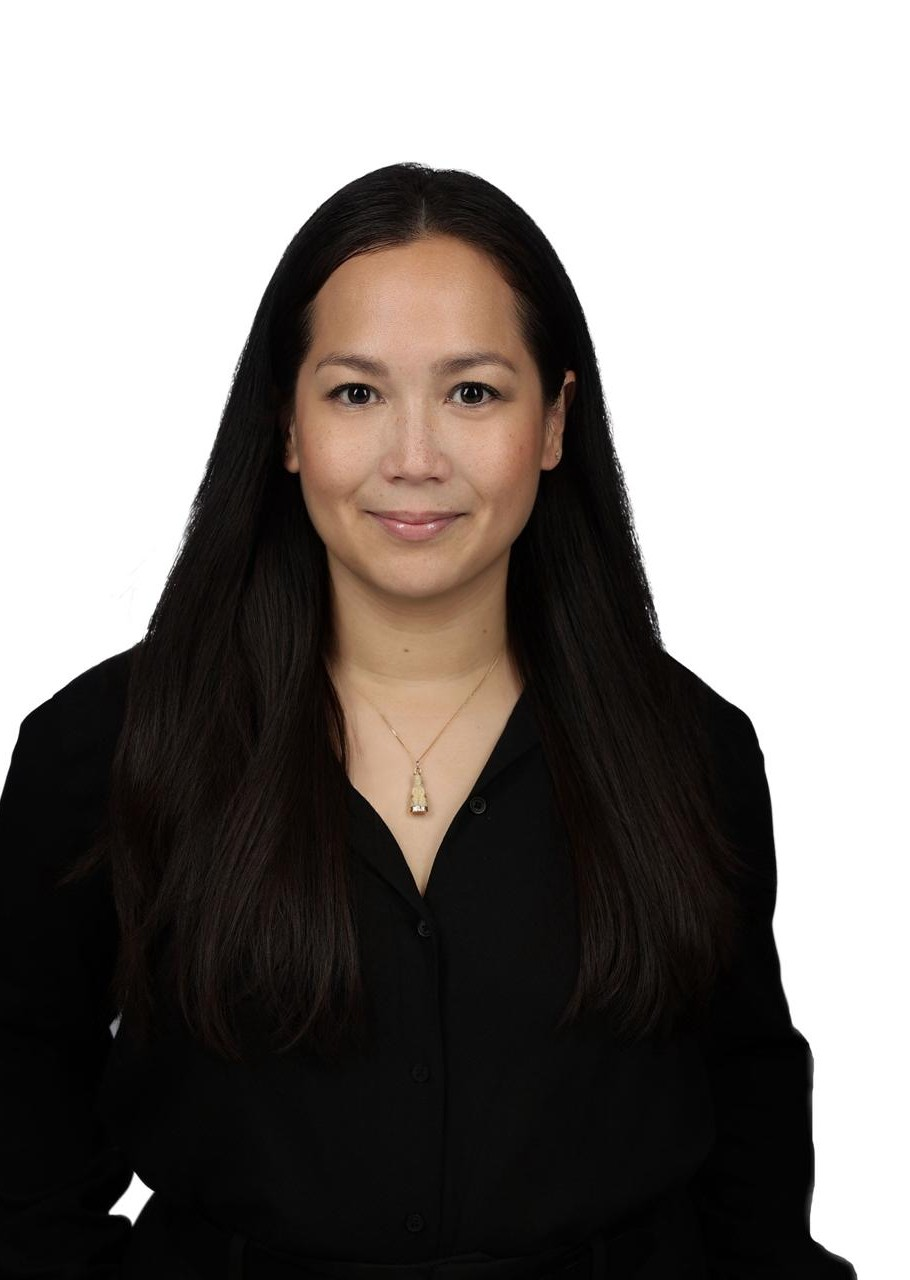
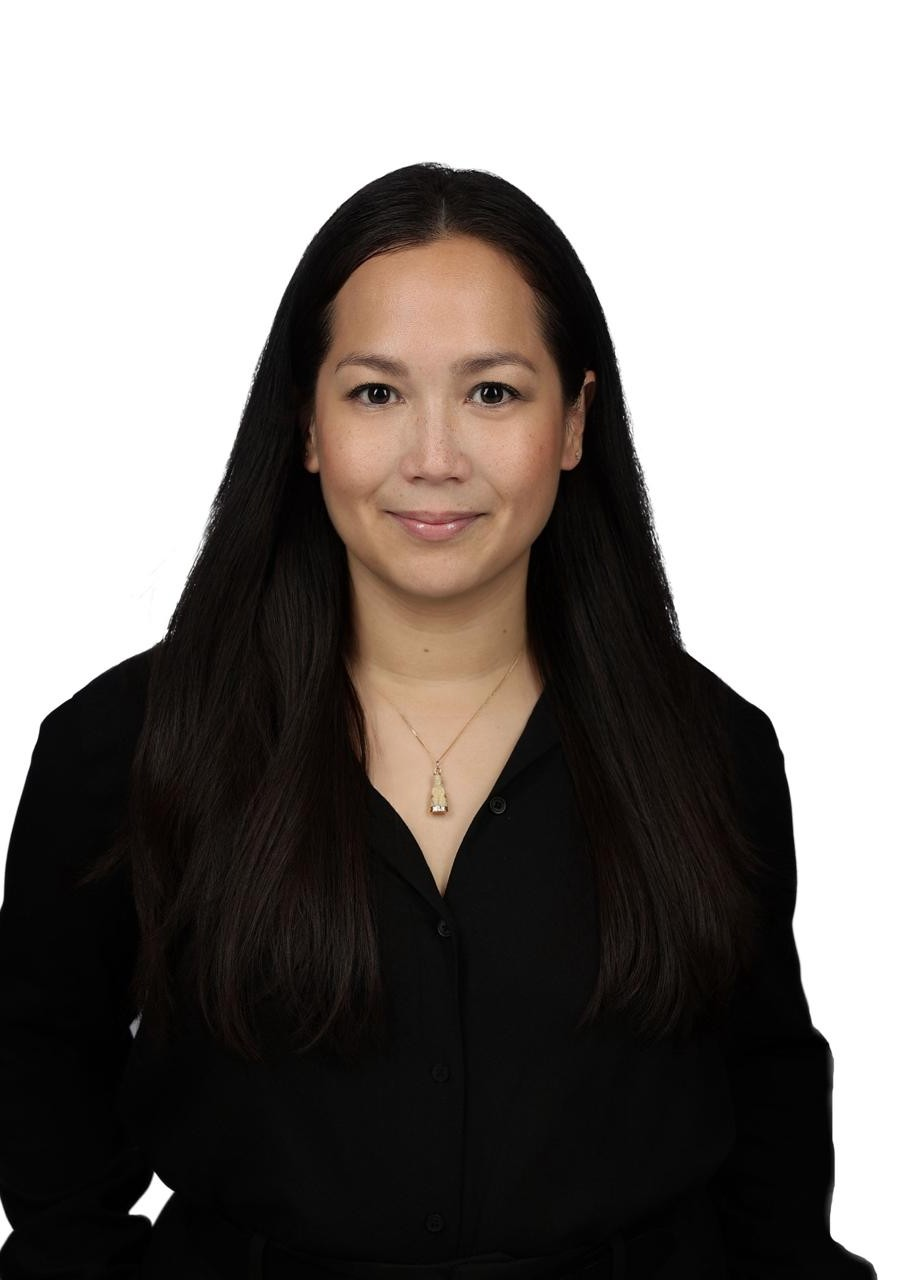
Add files via upload

diff --git a/index.html b/index.html
@@ -6,8 +6,8 @@
     <meta name="viewport" content="width=device-width, initial-scale=1.0" />
     <meta name="description" content="Eugenie Do – Real estate agent for the Greater Montreal Area. Buyer-first approach with construction expertise." />
     <title>Eugenie Do – Real Estate Agent, Greater Montreal</title>
-    <script type="module" crossorigin src="./assets/index-D9HHYLVe.js"></script>
-    <link rel="stylesheet" crossorigin href="./assets/index-BlrhRVmJ.css">
+    <script type="module" crossorigin src="./assets/index-ClrfqKkP.js"></script>
+    <link rel="stylesheet" crossorigin href="./assets/index-BZHalNX_.css">
   </head>
   <body>
     <div id="root"></div>

diff --git a/assets/index-BZHalNX_.css b/assets/index-BZHalNX_.css
@@ -1,0 +1,1 @@
+.nav{z-index:100;height:var(--nav-h);-webkit-backdrop-filter:blur(10px);backdrop-filter:blur(10px);transition:box-shadow .3s var(--ease);background:#faf6f2f2;border-bottom:1px solid #0000000f;align-items:center;display:flex;position:fixed;top:0;left:0;right:0}.nav.scrolled{box-shadow:0 2px 20px #00000014}.nav-inner{width:100%;max-width:var(--max);align-items:center;gap:32px;margin:0 auto;padding:0 32px;display:flex}.nav-logo{font-family:var(--font-disp);letter-spacing:.02em;color:var(--dark);cursor:pointer;background:0 0;border:none;margin-right:auto;padding:0;font-size:1.25rem;font-weight:500}.nav-logo span{color:var(--rose)}.nav-links{align-items:center;gap:32px;list-style:none;display:flex}.nav-link{letter-spacing:.1em;text-transform:uppercase;color:var(--mid);cursor:pointer;background:0 0;border:none;padding:4px 0;font-size:.78rem;font-weight:500;transition:color .2s}.nav-link:hover,.nav-link.active{color:var(--rose)}.nav-cta{letter-spacing:.08em;text-transform:uppercase;color:var(--white);background:var(--rose);cursor:pointer;border:none;border-radius:2px;padding:10px 22px;font-size:.78rem;font-weight:500;transition:background .2s}.nav-cta:hover{background:var(--rose-dk)}.nav-phone{color:var(--mid);white-space:nowrap;font-size:.78rem}.nav-phone:hover{color:var(--rose)}.hamburger{cursor:pointer;background:0 0;border:none;flex-direction:column;gap:5px;padding:6px;display:none}.hamburger span{background:var(--dark);width:24px;height:1.5px;transition:transform .3s var(--ease), opacity .3s;display:block}.hamburger.open span:first-child{transform:translateY(6.5px)rotate(45deg)}.hamburger.open span:nth-child(2){opacity:0}.hamburger.open span:nth-child(3){transform:translateY(-6.5px)rotate(-45deg)}.mobile-drawer{top:var(--nav-h);background:var(--cream);z-index:99;animation:slideDown .25s var(--ease);border-top:1px solid #0000000f;flex-direction:column;padding:16px 32px 28px;display:flex;position:fixed;left:0;right:0}.mobile-drawer button{letter-spacing:.1em;text-transform:uppercase;color:var(--mid);cursor:pointer;text-align:left;background:0 0;border:none;border-bottom:1px solid #0000000f;padding:14px 0;font-size:.85rem;font-weight:500;transition:color .2s}.mobile-drawer button:hover{color:var(--rose)}.mobile-drawer .mob-cta{background:var(--rose);border-radius:2px;margin-top:20px;padding:14px 24px;color:var(--white)!important;text-align:center!important;border-bottom:none!important}@keyframes slideDown{0%{opacity:0;transform:translateY(-8px)}to{opacity:1;transform:translateY(0)}}@media (width<=900px){.nav-links,.nav-phone{display:none}.hamburger{display:flex}}@media (width<=640px){.nav-inner{padding:0 20px}.mobile-drawer{padding:16px 20px 28px}}.nav-right{align-items:center;gap:16px;display:flex}.lang-toggle{letter-spacing:.1em;border:1px solid var(--rose);color:var(--rose);cursor:pointer;background:0 0;border-radius:2px;padding:5px 12px;font-size:.72rem;font-weight:500;transition:background .2s,color .2s}.lang-toggle:hover{background:var(--rose);color:var(--white)}.mob-lang{color:var(--rose);cursor:pointer;text-align:left;background:0 0;border:none;margin-top:8px;padding:12px 0;font-size:.8rem}@media (width<=900px){.nav-right{display:none}}.footer{background:#141210;padding:56px 0 32px}.footer-logo{font-family:var(--font-disp);letter-spacing:.02em;color:var(--white);cursor:pointer;background:0 0;border:none;margin-bottom:14px;padding:0;font-size:1.25rem;font-weight:500;display:block}.footer-logo span{color:var(--rose)}.footer-grid{border-bottom:1px solid #ffffff12;grid-template-columns:2fr 1fr 1fr;gap:48px;padding-bottom:40px;display:grid}.footer-brand p{color:#ffffff59;max-width:260px;font-size:.83rem;line-height:1.7}.footer-col h4{letter-spacing:.12em;text-transform:uppercase;color:#fff6;margin-bottom:18px;font-size:.72rem;font-weight:500}.footer-col ul{flex-direction:column;gap:10px;list-style:none;display:flex}.footer-col ul button,.footer-col ul a{color:#ffffff73;cursor:pointer;text-align:left;font-size:.85rem;font-family:var(--font-body);background:0 0;border:none;padding:0;transition:color .2s}.footer-col ul button:hover,.footer-col ul a:hover{color:var(--rose)}.footer-bottom{color:#fff3;flex-wrap:wrap;justify-content:space-between;align-items:center;gap:12px;padding-top:28px;font-size:.75rem;display:flex}@media (width<=760px){.footer-grid{grid-template-columns:1fr 1fr}}@media (width<=480px){.footer-grid{grid-template-columns:1fr}}.newsletter-strip{background:var(--blush);padding:60px 0}.newsletter-inner{flex-wrap:wrap;justify-content:space-between;align-items:center;gap:32px;display:flex}.newsletter-text h3{font-family:var(--font-disp);margin-bottom:6px;font-size:1.6rem;font-weight:300}.newsletter-text p{color:var(--mid);font-size:.88rem}.newsletter-form{flex:0 0 420px;display:flex}.newsletter-form input{background:var(--white);font-family:var(--font-body);border:1px solid #0000001f;border-right:none;border-radius:2px 0 0 2px;outline:none;flex:1;padding:14px 18px;font-size:.9rem}.newsletter-form input:focus{border-color:var(--rose)}.newsletter-form button{background:var(--rose);color:var(--white);letter-spacing:.1em;text-transform:uppercase;white-space:nowrap;border-radius:0 2px 2px 0;padding:14px 24px;font-size:.78rem;font-weight:500;transition:background .2s}.newsletter-form button:hover:not(:disabled){background:var(--rose-dk)}.newsletter-done{color:var(--rose);font-size:.9rem;font-weight:500}@media (width<=760px){.newsletter-form{flex:100%}}.hero{min-height:100vh;padding-top:var(--nav-h);grid-template-columns:1fr 1fr;display:grid}.hero-left{flex-direction:column;justify-content:center;padding:80px 64px 80px 80px;display:flex}.hero-eyebrow{letter-spacing:.18em;text-transform:uppercase;color:var(--rose);margin-bottom:20px;font-size:.72rem;font-weight:500}.hero-title{font-family:var(--font-disp);color:var(--dark);margin-bottom:24px;font-size:clamp(3rem,4.5vw,5.5rem);font-weight:300;line-height:1.05}.hero-title em{color:var(--rose);font-style:italic}.hero-sub{color:var(--mid);max-width:420px;margin-bottom:40px;font-size:1rem;line-height:1.75}.hero-actions{flex-wrap:wrap;gap:16px;display:flex}.hero-right{background:var(--blush);position:relative;overflow:hidden}.hero-right img{object-fit:cover;object-position:top center;width:100%;height:100%}.hero-right:after{content:"";background:linear-gradient(#0000 60%,#1a171426);position:absolute;inset:0}.hero-badges{z-index:2;flex-wrap:wrap;gap:14px;display:flex;position:absolute;bottom:32px;left:32px;right:32px}.hero-badge{-webkit-backdrop-filter:blur(8px);backdrop-filter:blur(8px);color:var(--mid);background:#faf6f2eb;border-radius:2px;padding:12px 18px;font-size:.78rem}.hero-badge strong{color:var(--dark);font-size:.9rem;font-weight:500;display:block}.hero-badge-logo{align-items:center;padding:10px 16px;display:flex}.hero-badge-logo img{width:auto;height:44px;display:block}.services-section{background:var(--white);padding:100px 0}.services-grid{background:#0000000d;grid-template-columns:repeat(2,1fr);gap:2px;display:grid}.service-card{background:var(--white);padding:48px 44px;transition:background .25s}.service-card:hover{background:var(--cream)}.service-icon{background:var(--blush);width:44px;height:44px;color:var(--rose);border-radius:50%;justify-content:center;align-items:center;margin-bottom:24px;display:flex}.service-icon svg{width:20px;height:20px}.service-card h3{font-family:var(--font-disp);color:var(--dark);margin-bottom:14px;font-size:1.5rem;font-weight:400}.service-card p{color:var(--mid);font-size:.9rem;line-height:1.75}.testimonials-section{background:var(--blush);padding:100px 0}.testimonials-grid{grid-template-columns:repeat(3,1fr);gap:24px;display:grid}.testimonial-card{background:var(--white);padding:40px 36px;position:relative}.testimonial-photo{z-index:1;border:2px solid var(--blush);border-radius:50%;width:56px;height:56px;margin-bottom:20px;position:relative;overflow:hidden}.testimonial-photo img{object-fit:cover;width:100%;height:100%}.testimonial-photo-fallback{background:var(--rose);width:100%;height:100%;color:var(--white);font-family:var(--font-disp);justify-content:center;align-items:center;font-size:1.1rem;font-weight:500;display:none}.testimonial-card:before{content:"“";font-family:var(--font-disp);color:var(--blush);font-size:5rem;line-height:.5;position:absolute;top:28px;right:28px}.stars{color:var(--rose);margin-bottom:14px;font-size:.85rem}.testimonial-card blockquote{color:var(--mid);z-index:1;margin-bottom:24px;font-size:.9rem;line-height:1.8;position:relative}.testimonial-card cite{letter-spacing:.05em;color:var(--dark);font-size:.8rem;font-style:normal;font-weight:500}.testimonial-card cite span{color:var(--light);font-size:.78rem;font-weight:300;display:block}.blog-preview-section{background:var(--cream);padding:100px 0}.blog-header{flex-wrap:wrap;justify-content:space-between;align-items:flex-end;gap:16px;margin-bottom:48px;display:flex}.read-all-btn{letter-spacing:.1em;text-transform:uppercase;color:var(--rose);cursor:pointer;background:0 0;border:none;font-size:.75rem;font-weight:500;transition:color .2s}.read-all-btn:hover{color:var(--rose-dk)}.blog-grid{grid-template-columns:repeat(3,1fr);gap:28px;display:grid}@media (width<=960px){.hero{grid-template-columns:1fr;min-height:auto}.hero-left{order:2;padding:60px 32px 40px}.hero-right{aspect-ratio:3/4;order:1;height:auto;max-height:none}.hero-right img{object-position:top center}.hero-right:after{display:block}.hero-badges{flex-direction:row;position:absolute;bottom:16px;left:16px;right:auto}.hero-badge{background:#faf6f2f0}.services-grid,.testimonials-grid,.blog-grid{grid-template-columns:1fr}}@media (width<=640px){.hero-left{padding:48px 20px 32px}.hero-badges{flex-direction:column;gap:8px}.services-section,.testimonials-section,.blog-preview-section{padding:64px 0}}.about-section{background:var(--cream);padding:100px 0}.about-grid{grid-template-columns:5fr 7fr;align-items:start;gap:80px;display:grid}.about-img-wrap{position:relative}.about-img-wrap:before{content:"";border:1px solid var(--rose);z-index:0;position:absolute;inset:-16px 16px 16px -16px}.about-img-wrap img{z-index:1;aspect-ratio:3/4;object-fit:cover;object-position:top;width:100%;position:relative}.about-content h2{font-family:var(--font-disp);margin-bottom:28px;font-size:clamp(1.8rem,2.8vw,2.8rem);font-weight:300;line-height:1.15}.about-content p{color:var(--mid);margin-bottom:16px;font-size:.92rem;line-height:1.8}.about-facts{flex-direction:column;gap:12px;margin-top:32px;display:flex}.about-fact{color:var(--mid);align-items:baseline;gap:16px;font-size:.87rem;display:flex}.about-fact strong{color:var(--dark);flex-shrink:0;min-width:120px}@media (width<=900px){.about-grid{grid-template-columns:1fr;gap:48px}.about-img-wrap{max-width:380px}.about-section{padding:64px 0}}.resources-section{background:var(--white);min-height:100vh;padding:100px 0}.resources-title{margin-bottom:56px}.resources-grid{grid-template-columns:repeat(3,1fr);gap:24px;display:grid}.resource-card{border:1px solid #00000014;padding:40px 32px;transition:border-color .2s,transform .2s}.resource-card:hover{border-color:var(--rose);transform:translateY(-3px)}.resource-tag{letter-spacing:.14em;text-transform:uppercase;color:var(--rose);margin-bottom:12px;font-size:.68rem;font-weight:500}.resource-card h3{font-family:var(--font-disp);color:var(--dark);margin-bottom:12px;font-size:1.3rem;font-weight:400}.resource-card p{color:var(--mid);margin-bottom:20px;font-size:.87rem;line-height:1.75}.resource-link{letter-spacing:.1em;text-transform:uppercase;color:var(--rose);cursor:pointer;background:0 0;border:none;padding:0;font-size:.75rem;font-weight:500;text-decoration:none;transition:color .2s}.resource-link:hover{color:var(--rose-dk)}@media (width<=900px){.resources-grid{grid-template-columns:1fr 1fr}}@media (width<=580px){.resources-grid{grid-template-columns:1fr}.resources-section{padding:64px 0}}.blog-section{background:var(--cream);min-height:100vh;padding:100px 0}.blog-title{margin-bottom:56px}.blog-full-grid{grid-template-columns:repeat(3,1fr);gap:28px;display:grid}.blog-card{overflow:hidden}.blog-card-img{aspect-ratio:4/3;margin-bottom:20px}.blog-meta{color:var(--light);letter-spacing:.06em;margin-bottom:10px;font-size:.72rem}.blog-meta span{color:var(--rose)}.blog-card h3{font-family:var(--font-disp);color:var(--dark);margin-bottom:10px;font-size:1.25rem;font-weight:400;line-height:1.3}.blog-card p{color:var(--mid);margin-bottom:14px;font-size:.85rem;line-height:1.7}.read-more{letter-spacing:.1em;text-transform:uppercase;color:var(--rose);cursor:pointer;background:0 0;border:none;padding:0;font-size:.72rem;font-weight:500}.read-more:hover{color:var(--rose-dk)}@media (width<=900px){.blog-full-grid{grid-template-columns:1fr 1fr}}@media (width<=580px){.blog-full-grid{grid-template-columns:1fr}.blog-section{padding:64px 0}}.contact-section{background:var(--dark);min-height:100vh;padding:100px 0}.contact-title{color:var(--white);margin-bottom:16px}.contact-sub{color:#ffffff80;max-width:520px;margin-bottom:56px;font-size:.95rem;line-height:1.75}.contact-grid{grid-template-columns:1fr 1fr;align-items:start;gap:80px;display:grid}.contact-form{flex-direction:column;gap:16px;display:flex}.form-row{grid-template-columns:1fr 1fr;gap:16px;display:grid}.form-group{flex-direction:column;gap:6px;display:flex}.form-group label{letter-spacing:.1em;text-transform:uppercase;color:#fff6;font-size:.72rem;font-weight:500}.form-group input,.form-group select,.form-group textarea{color:var(--white);font-family:var(--font-body);background:#ffffff12;border:1px solid #ffffff1f;border-radius:2px;outline:none;width:100%;padding:14px 16px;font-size:.92rem;transition:border-color .2s}.form-group input::placeholder,.form-group textarea::placeholder{color:#ffffff40}.form-group input:focus,.form-group select:focus,.form-group textarea:focus{border-color:var(--rose)}.form-group select option{background:var(--dark)}.form-group textarea{resize:vertical;min-height:120px}.form-consent{color:#ffffff4d;font-size:.78rem;line-height:1.6}.form-status{border-radius:2px;padding:12px 16px;font-size:.85rem}.form-status.success{color:#7ac47a;background:#64b4641f}.form-status.error{color:#c87a7a;background:#c850501f}.form-status.error a{color:var(--rose)}.submit-btn{text-align:center;width:100%}.contact-info h3{font-family:var(--font-disp);color:var(--white);margin-bottom:32px;font-size:1.6rem;font-weight:300}.contact-detail{align-items:flex-start;gap:16px;margin-bottom:20px;display:flex}.contact-detail-icon{background:#ffffff0f;border-radius:50%;flex-shrink:0;justify-content:center;align-items:center;width:36px;height:36px;display:flex}.contact-detail-icon svg{width:16px;height:16px;color:var(--rose)}.contact-detail span,.contact-detail a{color:#ffffff8c;font-size:.9rem;line-height:1.6}.contact-detail a:hover{color:var(--rose)}.social-label{letter-spacing:.12em;text-transform:uppercase;color:#ffffff4d;margin:36px 0 14px;font-size:.72rem;font-weight:500}.social-row{gap:12px;display:flex}.social-btn{background:#ffffff12;border-radius:50%;justify-content:center;align-items:center;width:40px;height:40px;transition:background .2s;display:flex}.social-btn:hover{background:var(--rose)}.social-btn svg{width:16px;height:16px}@media (width<=900px){.contact-grid{grid-template-columns:1fr;gap:48px}.contact-section{padding:64px 0}}@media (width<=640px){.form-row{grid-template-columns:1fr}}:root{--cream:#faf6f2;--blush:#f2e8e0;--rose:#c9806a;--rose-dk:#a85f4a;--dark:#1a1714;--mid:#5a524c;--light:#9a8f87;--white:#fff;--font-disp:"Cormorant Garamond", Georgia, serif;--font-body:"DM Sans", sans-serif;--nav-h:68px;--max:1160px;--ease:cubic-bezier(.4,0,.2,1)}*,:before,:after{box-sizing:border-box;margin:0;padding:0}html{scroll-behavior:smooth}body{font-family:var(--font-body);background:var(--cream);color:var(--dark);-webkit-font-smoothing:antialiased}img{max-width:100%;display:block}a{color:inherit;text-decoration:none}button{cursor:pointer;font:inherit;background:0 0;border:none}.container{max-width:var(--max);margin:0 auto;padding:0 32px}.section-label{letter-spacing:.18em;text-transform:uppercase;color:var(--rose);margin-bottom:12px;font-size:.72rem;font-weight:500}.section-title{font-family:var(--font-disp);color:var(--dark);font-size:clamp(2rem,3vw,3.2rem);font-weight:300;line-height:1.15}.btn-primary{background:var(--rose);color:var(--white);letter-spacing:.1em;text-transform:uppercase;transition:background .2s var(--ease), transform .2s;cursor:pointer;border:none;border-radius:2px;padding:16px 32px;font-size:.8rem;font-weight:500;display:inline-block}.btn-primary:hover{background:var(--rose-dk);transform:translateY(-1px)}.btn-outline{border:1.5px solid var(--rose);color:var(--rose);letter-spacing:.1em;text-transform:uppercase;cursor:pointer;background:0 0;border-radius:2px;padding:16px 32px;font-size:.8rem;font-weight:500;transition:background .2s,color .2s,transform .2s;display:inline-block}.btn-outline:hover{background:var(--rose);color:var(--white);transform:translateY(-1px)}.fade-up{opacity:0;transition:opacity .65s var(--ease), transform .65s var(--ease);transform:translateY(24px)}.fade-up.visible{opacity:1;transform:translateY(0)}@media (width<=640px){.container{padding:0 20px}}@font-face{font-family:Cormorant Garamond;font-style:normal;font-display:swap;font-weight:300;src:url(./cormorant-garamond-latin-300-normal-Cw-E_7L1.woff2)format("woff2"),url(./cormorant-garamond-latin-300-normal-BuXLI6C0.woff)format("woff")}@font-face{font-family:Cormorant Garamond;font-style:italic;font-display:swap;font-weight:300;src:url(./cormorant-garamond-latin-300-italic-qkwBXYHn.woff2)format("woff2"),url(./cormorant-garamond-latin-300-italic-DRnsRYID.woff)format("woff")}@font-face{font-family:Cormorant Garamond;font-style:normal;font-display:swap;font-weight:400;src:url(./cormorant-garamond-latin-400-normal-B-1hWBU7.woff2)format("woff2"),url(./cormorant-garamond-latin-400-normal-B7YtguxJ.woff)format("woff")}@font-face{font-family:Cormorant Garamond;font-style:italic;font-display:swap;font-weight:400;src:url(./cormorant-garamond-latin-400-italic-Dc_OZ8oc.woff2)format("woff2"),url(./cormorant-garamond-latin-400-italic-BLh7T8o8.woff)format("woff")}@font-face{font-family:Cormorant Garamond;font-style:normal;font-display:swap;font-weight:500;src:url(./cormorant-garamond-latin-500-normal-BsRWmXhO.woff2)format("woff2"),url(./cormorant-garamond-latin-500-normal-zIXX3Q-H.woff)format("woff")}@font-face{font-family:DM Sans;font-style:normal;font-display:swap;font-weight:300;src:url(./dm-sans-latin-300-normal-C46oWILc.woff2)format("woff2"),url(./dm-sans-latin-300-normal-CsNfKS1n.woff)format("woff")}@font-face{font-family:DM Sans;font-style:normal;font-display:swap;font-weight:400;src:url(./dm-sans-latin-400-normal-CW0RaeGs.woff2)format("woff2"),url(./dm-sans-latin-400-normal-BwCSEQnW.woff)format("woff")}@font-face{font-family:DM Sans;font-style:normal;font-display:swap;font-weight:500;src:url(./dm-sans-latin-500-normal-B9HHJjqV.woff2)format("woff2"),url(./dm-sans-latin-500-normal-Dr3UlScf.woff)format("woff")}